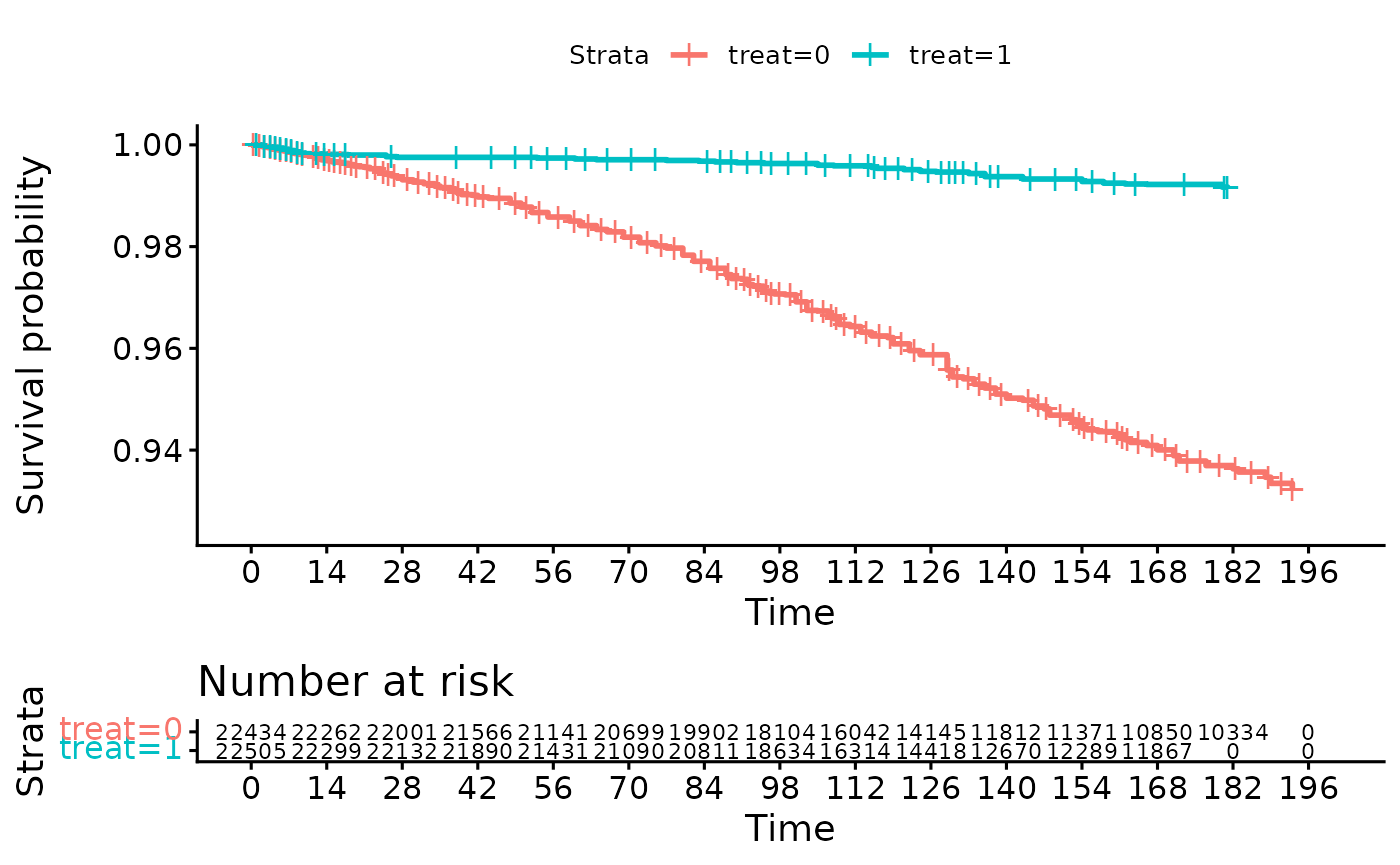
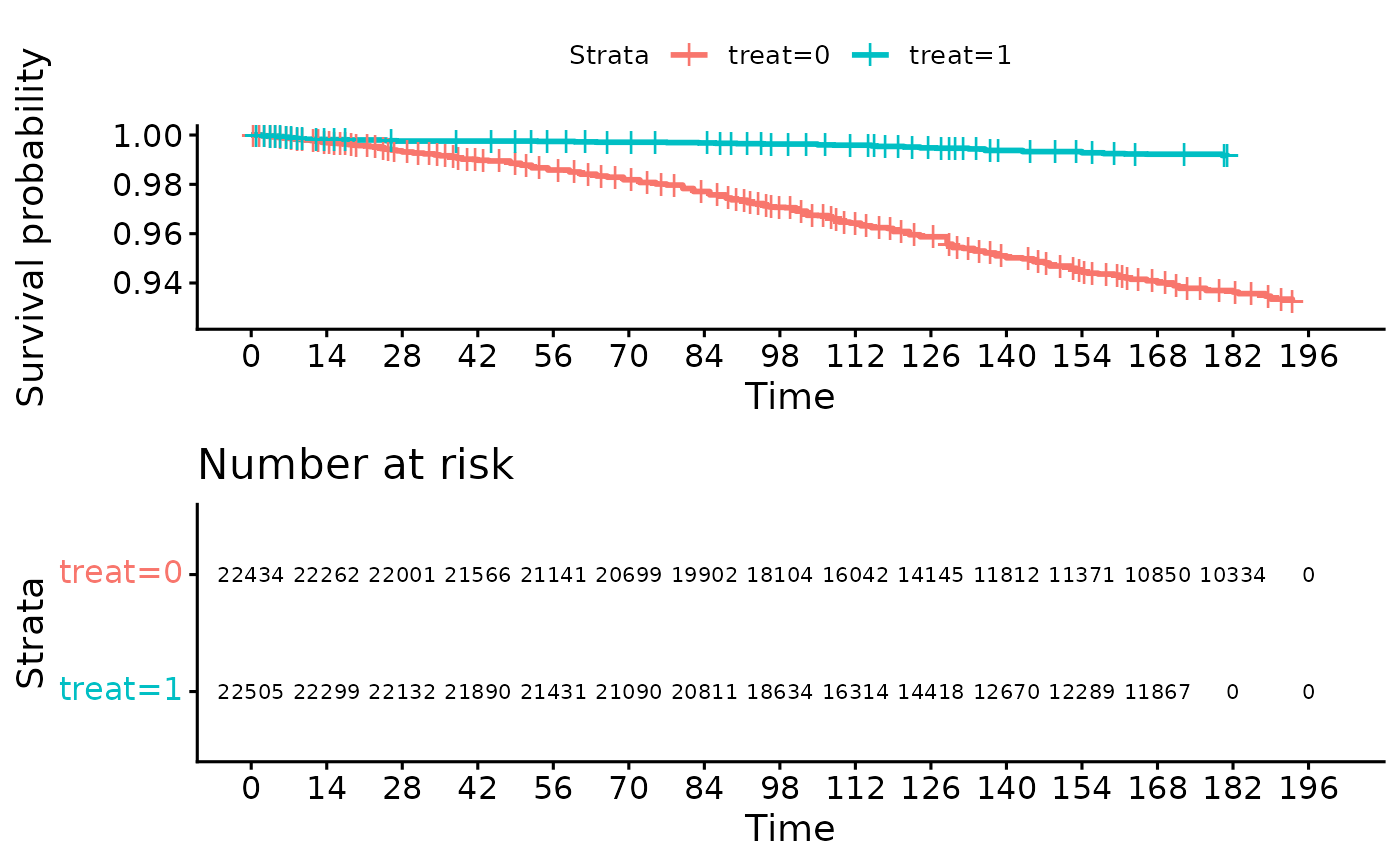
Deploying to gh-pages from @ swihart/mpw@258bcd5c93fd670285333fcb0868a725cbfa9e3e 🚀

diff --git a/articles/wwps-fay-ipd.html b/articles/wwps-fay-ipd.html
@@ -157,7 +157,8 @@ with the core of our example.</p>
 <span><span class="co">## zoomed in, inset, 11days</span></span>
 <span><span class="co"># Visualize with survminer</span></span>
 <span><span class="fu"><a href="https://rdrr.io/pkg/survminer/man/ggsurvplot.html" class="external-link">ggsurvplot</a></span><span class="op">(</span><span class="va">fit</span>, data <span class="op">=</span> <span class="va">ipd_data</span>, risk.table <span class="op">=</span> <span class="cn">TRUE</span>, </span>
-<span>           ylim<span class="op">=</span><span class="fu"><a href="https://rdrr.io/r/base/c.html" class="external-link">c</a></span><span class="op">(</span><span class="fl">1</span>,<span class="fl">0.993</span><span class="op">)</span>, xlim<span class="op">=</span><span class="fu"><a href="https://rdrr.io/r/base/c.html" class="external-link">c</a></span><span class="op">(</span><span class="fl">0</span>,<span class="fl">28</span><span class="op">)</span>, break.time.by<span class="op">=</span><span class="fl">11</span><span class="op">)</span></span></code></pre></div>
+<span>           ylim<span class="op">=</span><span class="fu"><a href="https://rdrr.io/r/base/c.html" class="external-link">c</a></span><span class="op">(</span><span class="fl">1</span>,<span class="fl">0.993</span><span class="op">)</span>, xlim<span class="op">=</span><span class="fu"><a href="https://rdrr.io/r/base/c.html" class="external-link">c</a></span><span class="op">(</span><span class="fl">0</span>,<span class="fl">28</span><span class="op">)</span>, break.time.by<span class="op">=</span><span class="fl">11</span>,</span>
+<span>           tables.height <span class="op">=</span> <span class="fl">0.50</span><span class="op">)</span></span></code></pre></div>
 <p><img src="wwps-fay-ipd_files/figure-html/thomas-data-1.png" class="r-plt" width="700"></p>
 <div class="sourceCode" id="cb2"><pre class="downlit sourceCode r">
 <code class="sourceCode R"><span></span>
@@ -165,7 +166,7 @@ with the core of our example.</p>
 <span><span class="co">## full view; every 14 days</span></span>
 <span><span class="fu"><a href="https://rdrr.io/pkg/survminer/man/ggsurvplot.html" class="external-link">ggsurvplot</a></span><span class="op">(</span><span class="va">fit</span>, data <span class="op">=</span> <span class="va">ipd_data</span>, risk.table <span class="op">=</span> <span class="cn">TRUE</span>, </span>
 <span>           ylim<span class="op">=</span><span class="fu"><a href="https://rdrr.io/r/base/c.html" class="external-link">c</a></span><span class="op">(</span><span class="fl">1</span>,<span class="fl">0.925</span><span class="op">)</span>, break.time.by<span class="op">=</span><span class="fl">14</span>,</span>
-<span>           fontsize<span class="op">=</span><span class="fl">3</span><span class="op">)</span></span></code></pre></div>
+<span>           fontsize<span class="op">=</span><span class="fl">2.8</span>, tables.height <span class="op">=</span> <span class="fl">0.50</span><span class="op">)</span></span></code></pre></div>
 <p><img src="wwps-fay-ipd_files/figure-html/thomas-data-2.png" class="r-plt" width="700"></p>
 <div class="sourceCode" id="cb3"><pre class="downlit sourceCode r">
 <code class="sourceCode R"><span></span>

diff --git a/articles/wwps-fay-ipd.md b/articles/wwps-fay-ipd.md
@@ -72,7 +72,8 @@ fit <- survfit(Surv(time, status) ~ treat,
 ## zoomed in, inset, 11days
 # Visualize with survminer
 ggsurvplot(fit, data = ipd_data, risk.table = TRUE, 
-           ylim=c(1,0.993), xlim=c(0,28), break.time.by=11)
+           ylim=c(1,0.993), xlim=c(0,28), break.time.by=11,
+           tables.height = 0.50)
 ```
 
 ![](wwps-fay-ipd_files/figure-html/thomas-data-1.png)
@@ -83,7 +84,7 @@ ggsurvplot(fit, data = ipd_data, risk.table = TRUE,
 ## full view; every 14 days
 ggsurvplot(fit, data = ipd_data, risk.table = TRUE, 
            ylim=c(1,0.925), break.time.by=14,
-           fontsize=3)
+           fontsize=2.8, tables.height = 0.50)
 ```
 
 ![](wwps-fay-ipd_files/figure-html/thomas-data-2.png)
